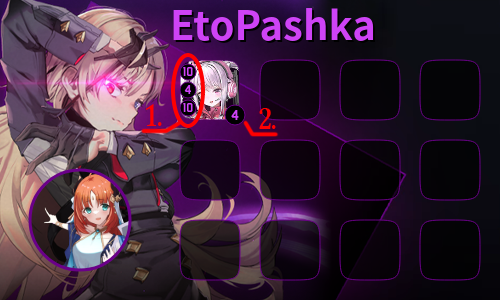
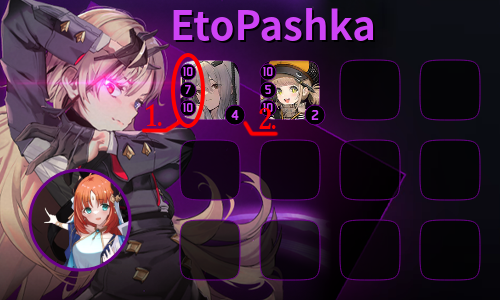
image change

Changed region(s): [[0.48, 0.18, 0.66, 0.48], [0.27, 0.18, 0.48, 0.45]]

diff --git a/commands/nikke/help.js b/commands/nikke/help.js
@@ -26,7 +26,7 @@ module.exports = {
                 '**1.** Skills\' levels;\n**2.** Number of OL gear equipped.\n' +
                 '*CD: 5 seconds.*\n' },
 			)
-			.setImage('https://i.ibb.co/6wpX4ML/profile-guide.png');
+			.setImage('https://i.ibb.co/6rjxt1s/profile-guide.png');
 		await interaction.reply({
 			content: `<@${interaction.user.id}>`,
 			embeds: [helpEmbed],
